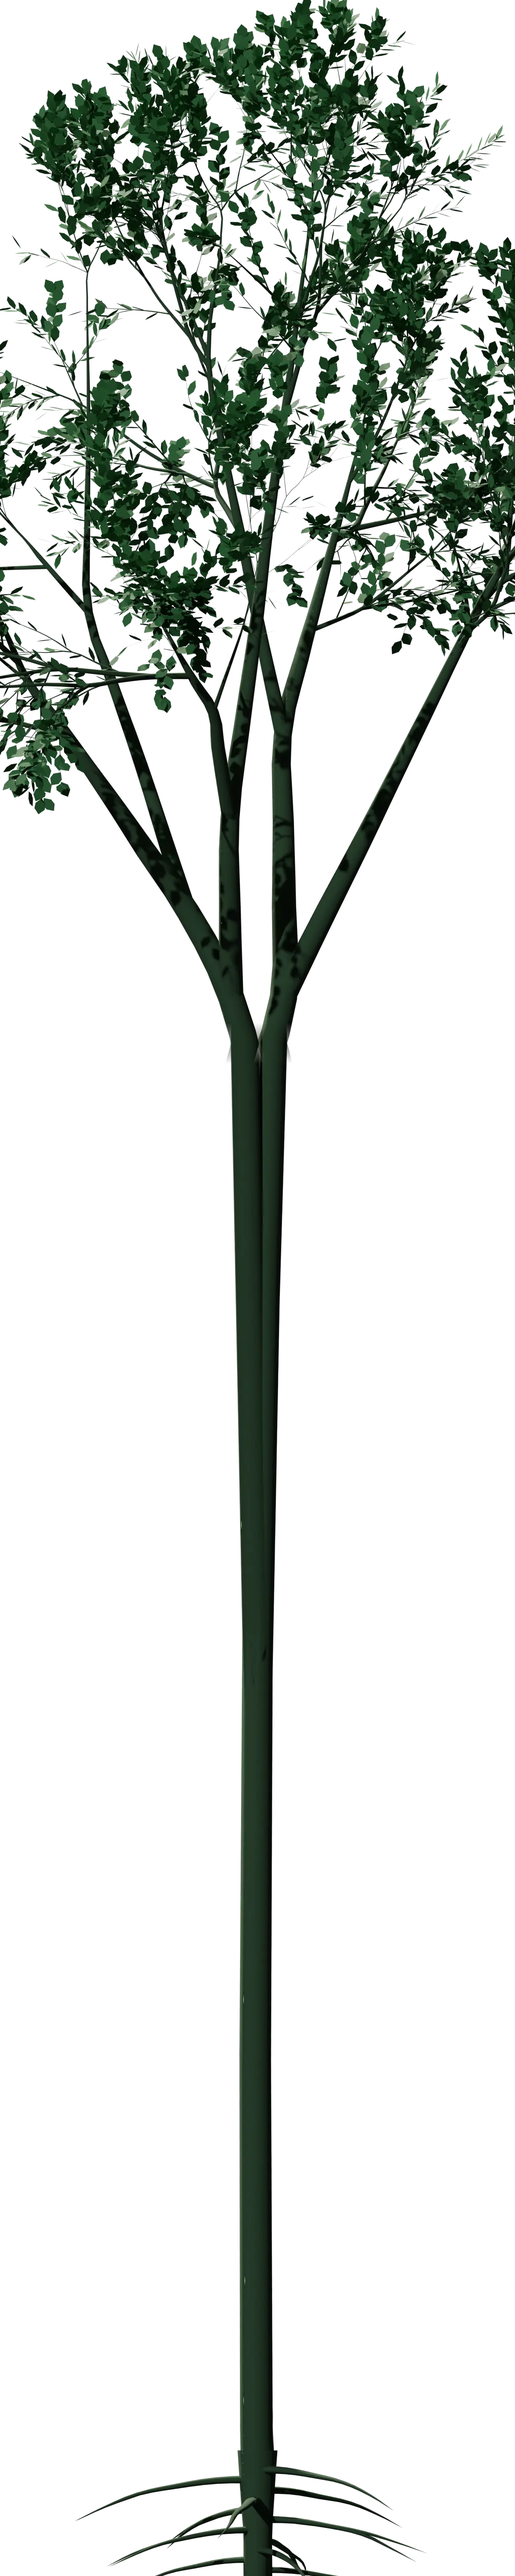
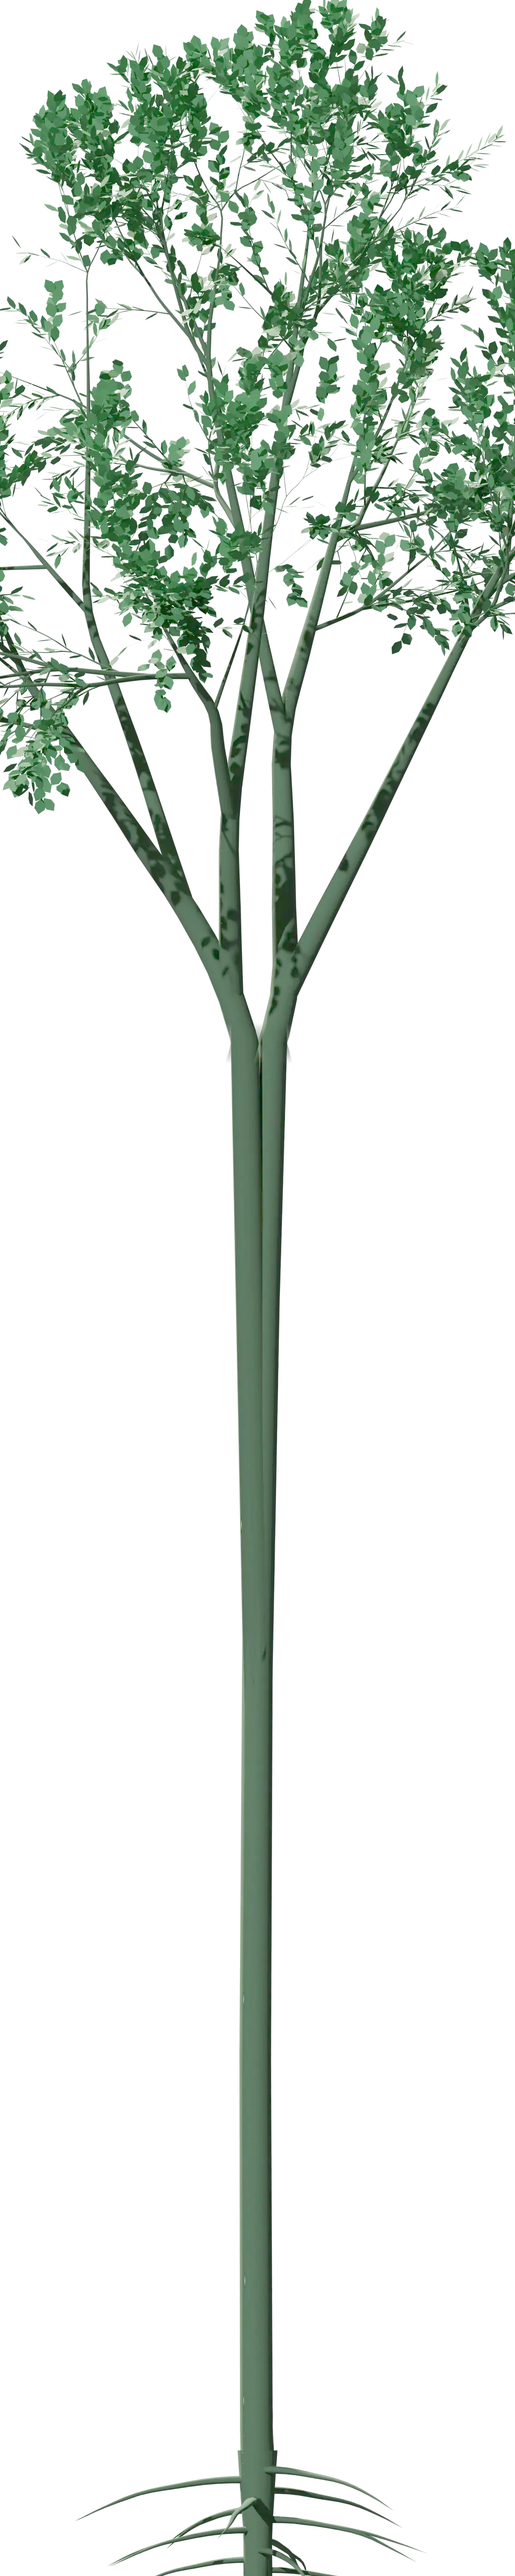
On protège les mots, plus l'écran entier — et la sync ne peut plus régresser
« Background trop sombre, on voit rien » : trois causes empilées.

1. La boucle de canopée était en silhouette. Feuilles en Principled BSDF
   opaque, soleil au-dessus, caméra dessous : luminance médiane 18/255.
   outils/canopee-blender.py passe à un matériau translucide (mélange
   Diffuse/Translucent à 55 %), un ciel clair qui éclaire le dessous des
   feuilles, un soleil ramené à 7,5 et un quatrième houppier.
2. L'arbre en colonne avait le même défaut (médiane 40/255) : remonté en
   gamma 2.15 avec un léger appui de saturation, médiane 106.
3. Les voiles noircissaient tout l'écran pour rendre le texte lisible.
   Remplacés par une protection locale : ombre portée sur les mots, halo
   doux derrière les blocs de texte, fond de colonne en dégradé de
   sous-bois au lieu d'un aplat noir, colonne de lumière derrière le tronc.
   La scène sert désormais une photo du thème au lieu d'un aplat vert.

Garde-fou de sync : le dépôt est resté en thème 1.0.0 (les commits ne
partent pas), donc le cron aurait écrasé le thème installé par sa version
d'origine — style.css, functions.php et les gabarits de base remplacés, les
fichiers récents laissés en place, site hybride cassé.
remote_theme_version() lit le Version: du style.css distant et sync() refuse
d'appliquer plus ancien que LAE_VERSION, en le consignant dans le journal.

Claude-Session: https://claude.ai/code/session_01KQu73MXJWW7UoXKoALDeBB

Changed region(s): [[0.0, 0.0, 1.0, 1.0]]

diff --git a/la-environnement-theme/front-page.php b/la-environnement-theme/front-page.php
@@ -35,6 +35,10 @@ if ( '' === $lae_tab_img ) {
 	$lae_tab_img = $dir . '/assets/images/jardin-piscine.webp';
 }
 $lae_scene_img  = lae_reglage( 'cine_scene_image' );
+if ( '' === $lae_scene_img ) {
+	// Sans photo, la scène n'était qu'un aplat vert : on sert celle du thème.
+	$lae_scene_img = $dir . '/assets/images/pelouse-haie.webp';
+}
 $lae_main_img   = lae_reglage( 'cine_main_image' );
 $lae_arbre_img  = lae_reglage( 'cine_arbre_image' );
 $lae_bois_img   = lae_reglage( 'cine_matiere_image' );
@@ -564,32 +568,62 @@ $lae_contact    = lae_url_contact();
      écrans de haut que l'on descend en défilant : cime en haut
      de page, racines en bas. Tout le reste passe par-dessus.
      ========================================================== */
-  .lae-colonne{position:fixed;inset:0;z-index:-1;overflow:hidden;pointer-events:none;background:var(--ink)}
+  /* Un aplat noir sous la vidéo faisait un trou dans la page dès que l'image
+     était sombre : le fond garde maintenant une profondeur de sous-bois. */
+  .lae-colonne{position:fixed;inset:0;z-index:-1;overflow:hidden;pointer-events:none;
+    background:
+      radial-gradient(80% 55% at 50% 8%,#1d4429,transparent 68%),
+      radial-gradient(70% 60% at 50% 100%,#12301c,transparent 72%),
+      linear-gradient(180deg,#0c2416,#071a0f 52%,#0b2114)}
+  /* Une colonne de lumière suit le tronc : sans elle, les scènes basses
+     tombaient sur un fond noir plat. */
+  .lae-colonne__lueur{position:absolute;left:50%;top:0;bottom:0;width:min(70vw,860px);
+    transform:translateX(-50%);pointer-events:none;
+    background:radial-gradient(46% 52% at 50% 42%,rgba(94,166,96,.3),rgba(47,125,79,.12) 58%,transparent 76%);
+    mix-blend-mode:screen}
   /* La vidéo passe sous l'arbre et sous le texte : elle donne le mouvement,
      jamais le premier plan. Sans cette retenue, plus rien ne se lit. */
-  .lae-colonne__video{position:absolute;inset:0;opacity:.5}
+  .lae-colonne__video{position:absolute;inset:0;opacity:.85}
   .lae-colonne__video video,.lae-colonne__video img{width:100%;height:100%;object-fit:cover}
   .lae-colonne__arbre{position:absolute;left:50%;top:0;width:min(64vw,760px);
-    transform:translate3d(-50%,0,0);opacity:.85;will-change:transform;
-    filter:drop-shadow(0 0 60px rgba(47,125,79,.35))}
+    transform:translate3d(-50%,0,0);opacity:.95;will-change:transform;
+    filter:drop-shadow(0 0 70px rgba(47,125,79,.28))}
   .lae-colonne__arbre img{width:100%;height:auto}
   /* Assez de voile pour que le texte reste lisible, assez peu pour que l'arbre
      se voie : c'est lui qui porte la descente. */
   .lae-colonne__voile{position:absolute;inset:0;
-    background:radial-gradient(130% 80% at 50% 30%,rgba(4,20,12,.3),rgba(4,20,12,.66) 70%,rgba(4,20,12,.84)),
-               linear-gradient(180deg,rgba(4,20,12,.58),rgba(4,20,12,.3) 40%,rgba(4,20,12,.66))}
-  @media(max-width:960px){.lae-colonne__arbre{width:118vw;opacity:.72}}
+    background:radial-gradient(130% 80% at 50% 30%,rgba(4,20,12,.06),rgba(4,20,12,.34) 72%,rgba(4,20,12,.52)),
+               linear-gradient(180deg,rgba(4,20,12,.34),rgba(4,20,12,.05) 42%,rgba(4,20,12,.36))}
+  @media(max-width:960px){.lae-colonne__arbre{width:118vw;opacity:.85}}
+
+  /* ----------------------------------------------------------
+     LISIBILITÉ : on protège les mots, pas tout l'écran.
+     Assombrir la page entière tuait la vidéo et l'arbre ; l'ombre
+     portée ne noircit que le pourtour immédiat du texte.
+     ---------------------------------------------------------- */
+  .hero__t,.stitle,.lead,.hero__sub,.eyebrow,.hero__points,.hero__scroll,.chs__t,.chs__p{
+    text-shadow:0 1px 2px rgba(2,12,7,.72),0 2px 22px rgba(2,12,7,.6)}
+  .eyebrow{text-shadow:0 1px 2px rgba(2,12,7,.9),0 0 14px rgba(2,12,7,.85)}
+  .hero__t,.stitle{text-shadow:0 2px 3px rgba(2,12,7,.78),0 4px 34px rgba(2,12,7,.68)}
+  /* Un halo doux derrière les blocs de texte centrés : il suit le texte,
+     il ne recouvre pas la scène. */
+  .hero__in::before,.at__head::before,.of__in::before,.rz__in::before{
+    content:"";position:absolute;left:50%;top:50%;transform:translate(-50%,-50%);
+    width:min(1100px,116%);height:130%;z-index:-1;pointer-events:none;
+    background:radial-gradient(60% 58% at 50% 50%,rgba(3,16,9,.66),rgba(3,16,9,.28) 62%,transparent 78%)}
+  .hero__in,.at__head,.of__in,.rz__in{position:relative}
+
 
   /* Les fonds pleins des scènes deviennent des voiles : sans cela la colonne
      serait masquée précisément là où la descente doit se sentir. */
-  .mq{background:rgba(6,26,16,.72)}
-  .ds__stick{background:radial-gradient(70% 70% at 50% 40%,rgba(15,36,24,.62),rgba(4,20,12,.9))}
-  .arbre__stick{background:radial-gradient(60% 60% at 50% 45%,rgba(15,36,24,.35),rgba(4,20,12,.78))}
+  .mq{background:rgba(6,26,16,.5)}
+  .ds__stick{background:radial-gradient(70% 70% at 50% 40%,rgba(15,36,24,.3),rgba(4,20,12,.62))}
+  .arbre__stick{background:radial-gradient(60% 60% at 50% 45%,rgba(15,36,24,.16),rgba(4,20,12,.5))}
   .ds__photo--nu{background:linear-gradient(155deg,rgba(18,48,30,.75),rgba(4,20,12,.9) 68%)}
   .pack,.card,.rz__card{background:rgba(11,29,19,.9);backdrop-filter:blur(2px)}
   .hero__veil{background:
-    linear-gradient(180deg,rgba(4,20,12,.72),rgba(4,20,12,.12) 34%,rgba(4,20,12,.42) 68%,rgba(4,20,12,.9)),
-    radial-gradient(120% 80% at 22% 60%,transparent 38%,rgba(4,20,12,.55))}
+    linear-gradient(180deg,rgba(4,20,12,.5),rgba(4,20,12,.02) 34%,rgba(4,20,12,.2) 68%,rgba(4,20,12,.66)),
+    radial-gradient(120% 80% at 22% 60%,transparent 44%,rgba(4,20,12,.3))}
 </style>
 
 <script>
@@ -626,6 +660,7 @@ if ( '' === $lae_col_arbre ) {
     <div class="lae-colonne__video"><?php echo lae_img( $lae_hero_post, '', array( 'loading' => '' ) ); ?></div>
   <?php endif; ?>
 
+  <div class="lae-colonne__lueur"></div>
   <div class="lae-colonne__arbre"><img src="<?php echo esc_url( $lae_col_arbre ); ?>" alt="" width="1200" height="6000" decoding="async" fetchpriority="low"></div>
   <div class="lae-colonne__voile"></div>
 </div>

diff --git a/outils/canopee-blender.py b/outils/canopee-blender.py
@@ -26,8 +26,37 @@ def matiere(nom, couleur, rugosite=0.8):
     p.inputs["Roughness"].default_value = rugosite
     return m
 
-bois    = matiere("bois",    (0.045, 0.085, 0.05, 1.0), 0.93)
-feuille = matiere("feuille", (0.05,  0.20,  0.075, 1.0), 0.6)
+def matiere_feuille(nom, couleur):
+    """Une feuille vue d'en bas est traversée par la lumière, pas éclairée.
+
+    Sans composante translucide, tout le houppier tombe en silhouette noire :
+    c'est exactement ce qui rendait la première boucle illisible. Le mélange
+    diffus / translucide rend le vert lumineux du contre-jour.
+    """
+    m = bpy.data.materials.new(nom); m.use_nodes = True
+    nt = m.node_tree
+    for n in list(nt.nodes):
+        if n.type != 'OUTPUT_MATERIAL':
+            nt.nodes.remove(n)
+    sortie = [n for n in nt.nodes if n.type == 'OUTPUT_MATERIAL'][0]
+
+    diffus = nt.nodes.new("ShaderNodeBsdfDiffuse")
+    diffus.inputs["Color"].default_value = couleur
+
+    trans = nt.nodes.new("ShaderNodeBsdfTranslucent")
+    trans.inputs["Color"].default_value = (
+        min(couleur[0] * 1.9, 1.0), min(couleur[1] * 1.55, 1.0), min(couleur[2] * 1.7, 1.0), 1.0
+    )
+
+    melange = nt.nodes.new("ShaderNodeMixShader")
+    melange.inputs["Fac"].default_value = 0.55      # majorité de translucide : contre-jour
+    nt.links.new(diffus.outputs[0], melange.inputs[1])
+    nt.links.new(trans.outputs[0],  melange.inputs[2])
+    nt.links.new(melange.outputs[0], sortie.inputs["Surface"])
+    return m
+
+bois    = matiere("bois", (0.075, 0.11, 0.07, 1.0), 0.93)
+feuille = matiere_feuille("feuille", (0.085, 0.28, 0.115, 1.0))
 
 def objet(prefixe):
     for o in bpy.data.objects:
@@ -36,7 +65,13 @@ def objet(prefixe):
 
 # ── trois houppiers à des profondeurs différentes : la parallaxe fait le relief ──
 couches = []
-for i, (graine, y, ech) in enumerate(((21, 0.0, 1.0), (9, 6.0, 0.72), (34, -5.5, 1.25))):
+# Quatre houppiers à des profondeurs différentes : la parallaxe fait le relief.
+# Le ciel dégagé à droite est voulu : c'est là que le texte de la page se lit.
+for i, (graine, y, ech, x) in enumerate((
+        (21,  0.0, 1.00,  0.0),
+        (9,   6.0, 0.72,  3.4),
+        (34, -5.5, 1.25, -2.2),
+        (57,  2.5, 0.88,  5.6))):
     bpy.ops.curve.tree_add(
         do_update=True, chooseSet='0', bevel=True, prune=False,
         showLeaves=True, useArm=False, bevelRes=1, resU=2,
@@ -58,7 +93,7 @@ for i, (graine, y, ech) in enumerate(((21, 0.0, 1.0), (9, 6.0, 0.72), (34, -5.5,
         f.name = f"feuillage{i}"
     for o in (tronc, f):
         if o:
-            o.location = (0, y, 0)
+            o.location = (x, y, 0)
             o.scale = (ech, ech, ech)
     couches.append((tronc, f, i))
 
@@ -66,21 +101,22 @@ for i, (graine, y, ech) in enumerate(((21, 0.0, 1.0), (9, 6.0, 0.72), (34, -5.5,
 # X=180° : l'objectif regarde vers le haut (par défaut il regarde vers le bas).
 bpy.ops.object.camera_add(location=(1.5, -0.7, 7.4), rotation=(math.radians(171), 0, math.radians(-8)))
 cam = objet("camera")
-cam.data.lens = 13
+cam.data.lens = 12
 bpy.context.scene.camera = cam
 
 # ── la lumière traverse le feuillage ──
 bpy.ops.object.light_add(type='SUN', location=(4, 3, 26))
 soleil = objet("sun")
-soleil.data.energy = 9.0
+soleil.data.energy = 7.5
 soleil.data.angle = math.radians(3)
 soleil.data.color = (1.0, 0.98, 0.78)
 soleil.rotation_euler = (math.radians(16), 0, math.radians(30))
 
 monde = bpy.context.scene.world
 monde.use_nodes = True
-monde.node_tree.nodes["Background"].inputs[0].default_value = (0.10, 0.26, 0.16, 1.0)
-monde.node_tree.nodes["Background"].inputs[1].default_value = 2.6
+# Ciel clair : c'est lui qui éclaire le dessous des feuilles.
+monde.node_tree.nodes["Background"].inputs[0].default_value = (0.30, 0.46, 0.40, 1.0)
+monde.node_tree.nodes["Background"].inputs[1].default_value = 1.6
 
 # ── le vent : rotations sinusoïdales, un tour complet sur la boucle ──
 for tronc, f, i in couches:
@@ -113,12 +149,15 @@ for img in range(IMAGES + 1):
 sc = bpy.context.scene
 sc.frame_start = 1
 sc.frame_end = IMAGES          # l'image IMAGES+1 est identique à la 1re : on l'exclut
+if os.environ.get("LAE_UNE"):   # rendu d'une seule image, pour juger l'éclairage
+    sc.frame_start = int(os.environ["LAE_UNE"])
+    sc.frame_end   = int(os.environ["LAE_UNE"])
 sc.render.fps = 24
 sc.render.engine = 'CYCLES'
 sc.cycles.device = 'CPU'
-sc.cycles.samples = int(os.environ.get("LAE_SAMPLES", "10"))
+sc.cycles.samples = int(os.environ.get("LAE_SAMPLES", "24"))
 sc.cycles.use_denoising = False
-sc.cycles.max_bounces = 2
+sc.cycles.max_bounces = 4
 sc.render.resolution_x = W
 sc.render.resolution_y = H
 sc.render.image_settings.file_format = 'PNG'

diff --git a/la-environnement-theme/inc/lae-github-sync.php b/la-environnement-theme/inc/lae-github-sync.php
@@ -87,6 +87,30 @@ class LAE_GitHub_Sync {
 		return is_string( $t ) ? trim( $t ) : '';
 	}
 
+	/**
+	 * Version du thème telle qu'elle se trouve dans le dépôt.
+	 *
+	 * Sert de garde-fou anti-régression : si le dépôt est en retard sur le
+	 * thème installé, la sync l'écraserait par une version plus ancienne.
+	 *
+	 * @return string Version trouvée, ou '' si illisible.
+	 */
+	public static function remote_theme_version( $cfg ) {
+		$sous = isset( $cfg['subdir'] ) ? trim( (string) $cfg['subdir'], '/' ) : '';
+		$url  = 'https://raw.githubusercontent.com/' . $cfg['repo'] . '/' . $cfg['branch']
+			. '/' . ( '' !== $sous ? $sous . '/' : '' ) . 'style.css';
+
+		$rep = wp_remote_get( $url, array(
+			'timeout' => 12,
+			'headers' => self::api_headers( 'text/plain' ),
+		) );
+		if ( is_wp_error( $rep ) || 200 !== (int) wp_remote_retrieve_response_code( $rep ) ) {
+			return '';
+		}
+		$entete = substr( (string) wp_remote_retrieve_body( $rep ), 0, 2048 );
+		return preg_match( '/^\s*Version:\s*([0-9][0-9.]*)/mi', $entete, $m ) ? $m[1] : '';
+	}
+
 	/** En-têtes API GitHub, avec Authorization si un token est configuré. */
 	public static function api_headers( $accept = 'application/vnd.github+json' ) {
 		$h = array( 'Accept' => $accept, 'User-Agent' => 'WordPress LAE-Sync' );
@@ -377,6 +401,28 @@ class LAE_GitHub_Sync {
 			return array( 'ok' => false, 'error' => 'API GitHub injoignable', 'log' => $log, 'sha' => '', 'stats' => array() );
 		}
 		$log[] = 'SHA distant : ' . $remote_sha;
+
+		// 1a. Jamais de régression : un dépôt en retard n'écrase pas le thème
+		//     installé. C'est exactement ce qui serait arrivé après un dépôt
+		//     manuel du thème alors que les commits n'étaient pas poussés.
+		if ( defined( 'LAE_VERSION' ) && isset( $cfg['target_dir'] )
+			&& untrailingslashit( $cfg['target_dir'] ) === untrailingslashit( get_stylesheet_directory() ) ) {
+
+			$version_depot = self::remote_theme_version( $cfg );
+			if ( '' !== $version_depot && version_compare( $version_depot, LAE_VERSION, '<' ) ) {
+				$log[] = 'ARRÊT : le dépôt est en ' . $version_depot . ', le site en ' . LAE_VERSION
+					. '. La sync écraserait le thème par une version plus ancienne.';
+				update_option( self::OPT_PREFIX . $slug . '_time', time() );
+				update_option( self::OPT_PREFIX . $slug . '_log', $log );
+				return array(
+					'ok'    => false,
+					'error' => 'Dépôt en retard (' . $version_depot . ' < ' . LAE_VERSION . ') : sync refusée.',
+					'log'   => $log,
+					'sha'   => self::get_local_sha( $slug ),
+					'stats' => array(),
+				);
+			}
+		}
 
 		// 1b. Sync incrémentale : ne récupère QUE les fichiers modifiés depuis
 		//     le dernier SHA connu. Évite le tarball complet quand le dépôt grossit.

diff --git a/HANDOFF.md b/HANDOFF.md
@@ -238,3 +238,42 @@ jamais dans `$ajoute()`.
 `lae_amorce_identite()` corrige le titre posé par l'hébergeur (le nom de domaine)
 en « L.A Environnement ». Verrou `lae_identite_faite`, séparé de `lae_amorce_faite`,
 pour rattraper les sites déjà amorcés.
+
+## v1.9.1 — « on voit rien » : trois causes, pas une
+
+1. **La boucle vidéo était en silhouette.** Dans `outils/canopee-blender.py`, les
+   feuilles avaient un Principled BSDF opaque et le soleil venait d'au-dessus :
+   vues d'en bas, elles ne pouvaient être que noires (luminance médiane 18/255).
+   Corrigé par un matériau **translucide** (mélange Diffuse / Translucent, 55 %),
+   un ciel clair qui éclaire le dessous des feuilles, et un soleil ramené à 7,5.
+2. **L'arbre en colonne était sombre pour la même raison** (médiane 40/255).
+   Remonté en gamma 2.15 + saturation 1.18 → médiane 106.
+3. **Les voiles noircissaient tout l'écran** pour protéger le texte. Remplacés
+   par une protection locale : ombre portée sur les mots, halo doux derrière les
+   blocs de texte, fond de colonne en dégradé de sous-bois plutôt qu'en aplat noir,
+   et une colonne de lumière derrière le tronc.
+
+**Règle** : on protège les mots, jamais tout l'écran. Un voile global au-delà de
+~.45 d'opacité annule la vidéo et l'arbre — c'est-à-dire tout ce qui fait le site.
+
+## Garde-fou anti-régression de la sync (important)
+
+Le dépôt GitHub est resté en **thème 1.0.0** (les commits ne partent pas, voir
+ci-dessous). La sync toutes les 5 minutes aurait donc **écrasé le thème installé
+par la version 1.0.0** : `style.css`, `functions.php`, `header/footer/index/page/
+single/404.php` remplacés par leurs versions d'origine, les fichiers plus récents
+laissés en place → site hybride cassé.
+
+`LAE_GitHub_Sync::remote_theme_version()` lit maintenant le `Version:` du
+`style.css` du dépôt, et `sync()` **refuse** d'appliquer une version inférieure à
+`LAE_VERSION`, en le disant dans le journal. À vérifier après chaque reprise :
+le dépôt doit être à jour AVANT de compter sur la sync.
+
+## Push GitHub : toujours bloqué
+
+`git push` → « not in this session's authorized repository set » (403).
+Connecteur GitHub MCP : lecture OK (`get_me`, `list_commits`), écriture refusée
+(« Resource not accessible by integration » sur `git/trees`).
+Il manque l'autorisation en écriture côté sources de la session / connecteur.
+Tant que ce n'est pas fait : livraison par ZIP, et le garde-fou ci-dessus protège
+le site.
